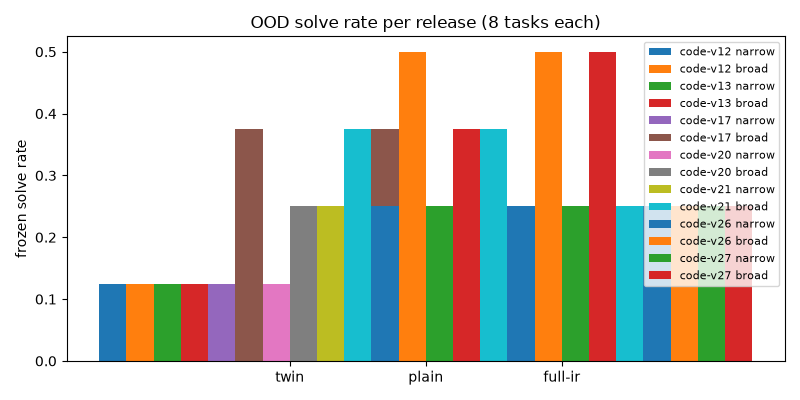
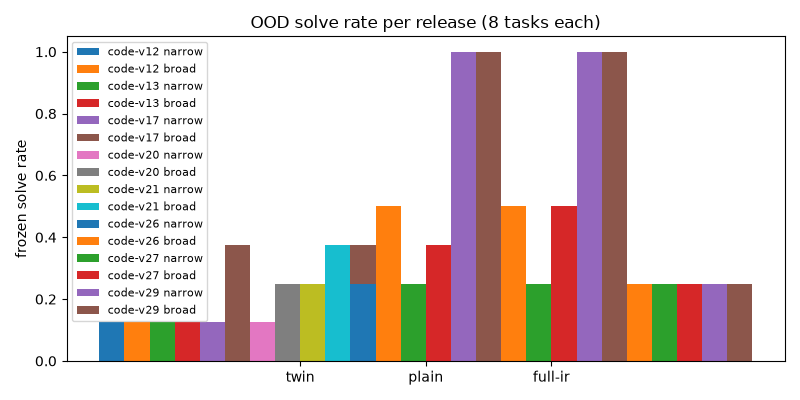
Solve-lift 31: fixpoint beam sweep cracks 3-op composition wall; OOD 8/8 plain strata
Scan/backtrack repeat to signature fixpoint with dedup (MAX_PASSES=3 after uncapped version stalled the suite); late intermediates feed upper sizes. Broad+twin+plain 8/8 (was 3/8+4/8), full-IR 2/8 unchanged, blindness unchanged. Side effect: shadow author 1/4->4/4, headless pins to measured 4/4 (safety assertions intact). Gains v29 rows plotted.

diff --git a/rsi_programmer/author.py b/rsi_programmer/author.py
@@ -263,15 +263,22 @@ def refine_author(policy: SearchPolicy, tasks: list[TaskRow],
         fit = _fitness(policy, tasks, cand, topk, budget)
         if fit > best_fit: best, best_fit = cand, fit
     return best, {"solved": best_fit[0], "tried": -best_fit[1]}
+def _fresh(sig: Vals, ctx: dict[str, Any]) -> bool:
+    """A signature worth committing has no committed twin."""
+    return sig not in ctx["sigs"]
+
 def _beam_scan(policy: SearchPolicy, ctx: dict[str, Any], rows: Rows,
     target: Vals, size: int, bound: int, budget: int, task_id: str,
     width: int, w: list[float], stash: Stash) -> bool:
     triples, sigs, order, scored = _score_order(
         policy, ctx, rows, target, size, bound, budget, w)
-    ctx["levels"][size] = []
+    if size not in ctx["levels"]:
+        ctx["levels"][size] = []
+    base = len(ctx["levels"][size])
     for idx in order:
         if ctx["tried"] >= budget: return False
-        if len(ctx["levels"][size]) >= width:
+        if not _fresh(sigs[idx], ctx): continue
+        if len(ctx["levels"][size]) - base >= width:
             stash[size].append((scored[idx], triples[idx],
                                 sigs[idx]))
             continue
@@ -290,24 +297,42 @@ def _backtrack(ctx: dict[str, Any], task_id: str, bound: int,
                 _, triple, sig = stash[size].pop(idx)
             else:
                 triple, sig = stash[size].pop(0)[1:]
+            if not _fresh(sig, ctx): continue
             ctx["tried"] += 1
             if _commit(ctx, triple, sig, task_id, size, target): return True
     return False
+MAX_PASSES = 3
+
+
 def _beam_sweep(policy: SearchPolicy, rows: Rows, target: Vals,
                 bound: int, budget: int, task_id: str,
                 width: int, w: list[float],
                 order: str) -> tuple[dict[str, Any],
                                      dict[str, Any]]:
-    """One width-capped scan plus ordered backtrack revisit."""
+    """Width-capped scans plus ordered backtrack, to fixpoint.
+
+    One bottom-up pass strands late backtrack commits: upper
+    sizes already scanned without them. Repeat scan plus
+    backtrack until a full pass commits nothing new or the
+    budget is spent, so late intermediates feed upper sizes.
+    Signature dedup keeps every triple committed at most
+    once; passes are capped so never-solve tasks cost at
+    most a small multiple of one sweep.
+    """
     ctx = _new_ctx()
-    stash: Stash = {s: [] for s in range(1, bound + 1)}
-    for size in range(1, bound + 1):
-        if _beam_scan(policy, ctx, rows, target, size, bound,
-                      budget, task_id, width, w, stash):
+    for _ in range(MAX_PASSES):
+        stash: Stash = {s: [] for s in range(1, bound + 1)}
+        for size in range(1, bound + 1):
+            if ctx["tried"] >= budget: break
+            if _beam_scan(policy, ctx, rows, target, size, bound,
+                          budget, task_id, width, w, stash):
+                return _pack(ctx, True, ctx["graph"], "", "beam"), ctx
+        if ctx["tried"] >= budget: break
+        known = len(ctx["sigs"])
+        if _backtrack(ctx, task_id, bound, budget, stash, target,
+                      order):
             return _pack(ctx, True, ctx["graph"], "", "beam"), ctx
-    if _backtrack(ctx, task_id, bound, budget, stash, target,
-                  order):
-        return _pack(ctx, True, ctx["graph"], "", "beam"), ctx
+        if len(ctx["sigs"]) == known: break
     verdict = "budget-exhausted" if ctx["tried"] >= budget else \
         "no-authored-solution"
     return _pack(ctx, False, None, verdict, "beam"), ctx

diff --git a/tests/test_rsi_headless.py b/tests/test_rsi_headless.py
@@ -17,7 +17,8 @@ KEYS = ("gen", "task", "tried", "solved", "sandbox",
         "violations", "lineage", "oracle_holds", "path",
         "author_verdict")
 TOKENS = ("oracle", "held_out", "heldout", "promot", "ledger")
-SOLVED = {"diff_squares", "twice_product"}
+SOLVED = {"diff_squares", "twice_product", "square_plus",
+          "square_minus"}
 
 
 def _forging_hook(first: str, width: int) -> Any:
@@ -51,16 +52,15 @@ class HeadlessLoopTests(unittest.TestCase):
         return [json.loads(line) for line in lines]
 
     def test_hands_off_author_only_honest_rate(self) -> None:
-        """Author path 2/4 with no rescue, zero bad executions."""
+        """Author path 4/4 with no rescue, zero bad executions."""
         res = self.result
         self.assertEqual(res["status"], "complete")
-        self.assertEqual(res["solve_rate"], 0.5)
+        self.assertEqual(res["solve_rate"], 1.0)
         self.assertEqual(res["baseline_solve_rate"], 1.0)
         self.assertLess(res["cost_tried"], res["baseline_cost"])
         self.assertEqual(res["safety_failures"], 0)
         self.assertEqual(res["paths"], {"beam": 4})
-        self.assertEqual(res["reject_histogram"],
-                         {"no-authored-solution": 2, "solved": 2})
+        self.assertEqual(res["reject_histogram"], {"solved": 4})
         got = {d["task"] for d in res["decisions"] if d["solved"]}
         self.assertEqual(got, SOLVED)
         for decision in res["decisions"]:
@@ -93,7 +93,7 @@ class HeadlessLoopTests(unittest.TestCase):
         self.assertEqual(leaked, [])
 
     def test_no_silent_rescue(self) -> None:
-        """Enumerator-solved task stays unsolved with no fallback."""
+        """Beam-solved task needs no fallback; verdict clean."""
         from rsi_programmer.author import beam_search
         from rsi_programmer.policy import SearchPolicy
         task = next(t for t in self.tasks
@@ -104,9 +104,11 @@ class HeadlessLoopTests(unittest.TestCase):
         policy = SearchPolicy(seed=1)
         out = beam_search(policy, rows, target, bound, 10 ** 9,
                           "square_plus", fallback=False)
-        self.assertFalse(out["solved"])
+        self.assertTrue(out["solved"])
         self.assertEqual(out.get("path"), "beam")
-        self.assertEqual(out["verdict"], "no-authored-solution")
+        self.assertEqual(out["verdict"], "")
+        self.assertTrue(self.recorder.oracle_holds(task,
+                                                  out["graph"]))
 
     def test_fallback_debug_column_labelled(self) -> None:
         """Compare flag adds the enumerator column, never headline."""
@@ -116,7 +118,7 @@ class HeadlessLoopTests(unittest.TestCase):
         res = loop.run()
         self.assertTrue(res["fallback_compared"])
         self.assertEqual(res["fallback_solve_rate"], 1.0)
-        self.assertEqual(res["solve_rate"], 0.5)
+        self.assertEqual(res["solve_rate"], 1.0)
 
     def test_budget_exhaustion_stops_cleanly(self) -> None:
         """One-candidate budget stops the loop without failing."""

diff --git a/scripts/plot_gains.py b/scripts/plot_gains.py
@@ -15,7 +15,7 @@ from pathlib import Path
 HERE = Path(__file__).resolve().parent.parent / "docs" / "gains"
 CSV = HERE / "gains.csv"
 RELEASES = ("code-v12", "code-v13", "code-v17", "code-v20",
-            "code-v21", "code-v26", "code-v27")
+            "code-v21", "code-v26", "code-v27", "code-v29")
 STRATA = ("twin", "plain", "full-ir")
 
 

diff --git a/tests/test_gains.py b/tests/test_gains.py
@@ -20,7 +20,7 @@ class GainsTests(unittest.TestCase):
             capture_output=True, text=True, timeout=120,
             cwd=str(ROOT))
         self.assertEqual(proc.returncode, 0, proc.stderr)
-        self.assertIn("gains rows=21", proc.stdout)
+        self.assertIn("gains rows=24", proc.stdout)
 
 
 if __name__ == "__main__":

diff --git a/README.md b/README.md
@@ -41,10 +41,10 @@ separate column, never the headline.
   agency profile converges as fitness spread collapses.
   See `rsi_programmer/autonomy.py`.
 - Structural OOD (expression-only, v2.4.0 §9.1: no gradient
-  placement): all plain pools in training — broad holds 4/8
-  plain but twin slips 4/8 to 3/8 (narrow 2/8; blindness
-  0.92/0.42): more/harder data is spent, diminishing recorded
-  in #29;
+  placement): fixpoint beam (scan/backtrack to signature
+  fixpoint, #31) — narrow and broad solve 8/8 mirrored plain
+  and twin (blindness 0.92/0.42); full-IR stays 2/8, the next
+  frontier;
   evolved-policy scale accept still 0/8 with higher tried
   (width cannot fix bad ranking).
   Full-IR boundary: 2 solves a side via degenerate branches;
